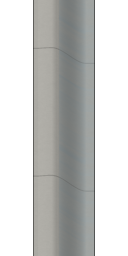
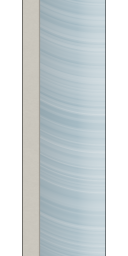
WEIR_LOOKS_REDRAW_ONE_PER_PIPE_STYLE: v12 Modern curtain (judge r6 blocking: read as a tube, too close to Industrial) -- flat warm crest + wide streaked water-sheet face, no mid seam, post never tinted; facing check reads Modern's crest as the least-blue column; judge r7 weak, blocking none; selftes

diff --git a/src/RimMandrake/FlowWorks/art_source/Weir/weir_by_photo.py b/src/RimMandrake/FlowWorks/art_source/Weir/weir_by_photo.py
@@ -4,7 +4,7 @@ scavver/crude, industrial, modern, futuristic." Refs, never committed: D:\\Claud
 weir_ref2_stepped_concrete, weir_ref3_smooth_curtain, weir_ref4_labyrinth_zigzag _owner_20261024.png):
   Scrapper   = a crude rubble weir: a heaped ridge of rounded field stones, moss on the dry tops, wet dark at the foot
   Industrial = a stepped concrete weir: level crest, three steps down the spill face, expansion joints, algae low down
-  Modern     = a smooth curtain weir: clean pale concrete, a brushed-steel crest strip, one unbroken ogee face
+  Modern     = a smooth curtain weir: a flat warm-white crest slab with a crisp nose, then one wide concave face carrying a streaked sheet of water
   Futuristic = a labyrinth weir: a white composite wall zig-zagging in plan (two teeth a cell), a cyan strip on its crest
 
 Procedural, deterministic. Each look is a PLAN heightfield (along the wall x, across it v from upstream to downstream,
@@ -263,15 +263,14 @@ def stepped(Wp, Vp, flip):
 
 
 def ogee_profile(vd, Vp):
-    """Smooth curtain: vertical upstream face, a rounded crest, one S-curve down to a short flat toe."""
+    """Smooth curtain: a flat level crest ending in a crisp nose, then one long concave face (water sheet) down to the
+    toe. v12 (judge r6: "a pale rounded tube ... close to Industrial"): the crest is flat, not rounded, and the face is
+    a wide apron, so the plan reads as a slab with a sheet of water down it, not a cylinder."""
     hc = 21.0
-    c0, c1, toe = 0.08 * Vp, 0.30 * Vp, 0.86 * Vp
+    c1, toe = 0.20 * Vp, 0.96 * Vp
     t = np.clip((vd - c1) / (toe - c1), 0, 1)
-    s = t * t * (3 - 2 * t)
-    hh = hc - (hc - 1.8) * s
-    nose = np.clip((vd - c0) / (c1 - c0), 0, 1)
-    hh = hh - 0.9 * (1 - np.sin(nose * np.pi / 2)) * (vd < c1)
-    hh = np.where(vd < c0, hc - 0.9 + 0.9 * np.clip(vd / c0, 0, 1) * 0, hh)
+    s = 1 - (1 - t) ** 2.2                     # steep just below the nose, flattening toward the toe
+    hh = hc - (hc - 1.2) * s
     return np.where((vd >= 0) & (vd < Vp), hh, 0)
 
 
@@ -284,6 +283,7 @@ def ogee(Wp, Vp, flip):
     return P
 
 
+MODERN_D = 84    # Modern plan depth (S px): a wide curtain apron (judge r6)
 LAB_H = 10.0    # the labyrinth wall's height (S px): low, so seen N-S its faces do not stack into a coil (judge r4-r5)
 
 
@@ -363,19 +363,18 @@ def colours(look, P, wrap_v):
             base = np.where((~face)[..., None], base * 1.18, base)   # lit treads against dark risers
             return base, 0.40, 0.72, 0.0
         if look == "Modern":
-            base = np.array([198, 196, 189], np.float32) * (0.97 + 0.05 * g1)[..., None]
-            seam = (al % 128 == 64)
-            base = np.where(seam[..., None], base * 0.85, base)
-            wet = np.clip((5.0 - z) / 5.0, 0, 1) * 0.35
-            base = mix(base, [120, 132, 136], wet)
-            # the curtain: a thin film of water down the sloped face, faint vertical streaks along the wall (judge r4:
-            # "a plain beam")
-            film = (~face) & (z < 19.0) & (z > 2.0)
-            mstreak = pnoise((1, 256), 256, 53, scales=(2, 3, 6))[0][al % 256] ** 2
-            base = np.where(film[..., None], mix(base, [168, 186, 194], 0.25 + 0.45 * mstreak), base)
-            steel = (~face) & (z > 20.0)                    # the crest, a shade off the slab
-            base = np.where(steel[..., None], base * 0.97, base)
-            return base, 0.42, 0.62, 0.03   # the crest in the slab's own colour: no bright line (judge r2, r3)
+            # v12 (judge r6): a warm-white flat crest slab, then the curtain -- a bright blue-white sheet of water with
+            # strong vertical streaks over the whole face, foaming at the toe; no mid-section seam (read as a join line)
+            crest = np.array([224, 220, 210], np.float32) * (0.97 + 0.05 * g1)[..., None]
+            mstreak = pnoise((1, 256), 256, 53, scales=(1.5, 3, 6))[0][al % 256] ** 1.5
+            sheet = mix(np.broadcast_to(np.array([176, 204, 216], np.float32), crest.shape), [238, 246, 250],
+                        0.15 + 0.75 * mstreak)
+            on_face = (z < 20.4) & (top < 30)        # never on the post (its top is ~82): judge r7 "posts tint blue"
+            base = np.where(on_face[..., None], sheet, crest)
+            foam = np.clip((4.0 - z) / 4.0, 0, 1) * 0.6
+            base = mix(base, [240, 246, 248], foam)
+            amb = np.where(on_face, 0.62, 0.46)
+            return base, amb, np.where(on_face, 0.40, 0.58), 0.03
         # Futuristic
         base = np.array([226, 231, 236], np.float32) * (0.98 + 0.03 * g1)[..., None]
         # the downstream bays: water falling off the crest into them, white streaks running with the flow (the photo's
@@ -404,7 +403,7 @@ def body_h(look, flip):
     elif look == "Industrial":
         P, y0 = stepped(Wp, 64, flip), 50
     elif look == "Modern":
-        P, y0 = ogee(Wp, 62, flip), 48
+        P, y0 = ogee(Wp, MODERN_D, flip), 44
     else:
         P, y0 = labyrinth(Wp, 74, flip), 44
     own, z = project(P.h, P.id, KY, y0, 128, wrap=False)
@@ -416,7 +415,7 @@ def body_v(look):
     Lp = round(256 / KY)                  # plan length whose screen image is exactly 256 rows
     ky = 256 / Lp
     if True:
-        depth = {"Scrapper": 92, "Industrial": 64, "Modern": 62, "Futuristic": 74}[look]
+        depth = {"Scrapper": 92, "Industrial": 64, "Modern": MODERN_D, "Futuristic": 74}[look]
         xs = (128 - depth) // 2
         if look == "Scrapper":
             P = rubble(depth, Lp, 43, along_v=True)

diff --git a/src/RimMandrake/FlowWorks/Tools/fw_scenes_weir.py b/src/RimMandrake/FlowWorks/Tools/fw_scenes_weir.py
@@ -357,7 +357,7 @@ def facing(d, look):
     cols = np.nonzero(al.any(0))[0]
     c0, c1 = cols.min(), cols.max()
     lum = _lum(north[..., :3])
-    # the crest is the highest, flattest top: brightest columns (Modern's steel strip, Industrial's crest slab); the
+    # the crest is the highest, flattest top: brightest columns (Industrial's crest slab); the
     # labyrinth's teeth are one height both ways: its downstream bays carry the falling water
     colmean = np.array([np.median(lum[al[:, c], c]) if al[:, c].any() else 0 for c in range(north.shape[1])])
     if look == "Futuristic":
@@ -370,6 +370,12 @@ def facing(d, look):
         ok = se is not None and sw is not None and se > sw + 8 and rel >= 0.55
         return ok, "water bays centre row east %s vs west %s (east >= 8 lower); north bays centre at %.2f of the band" \
                    " (>= 0.55, downstream right)" % (None if se is None else round(se), None if sw is None else round(sw), rel)
+    elif look == "Modern":
+        # the crest is the warm dry slab; the curtain below it is a blue-white water sheet, often brighter (v12), so
+        # the crest is the column whose median is least blue, not the brightest
+        warm = north[..., 0].astype(np.float32) - north[..., 2].astype(np.float32)
+        colwarm = np.array([np.median(warm[al[:, c], c]) if al[:, c].any() else -999 for c in range(north.shape[1])])
+        where = float(np.argmax(colwarm))
     else:
         where = float(np.argmax(colmean))
     rel = (where - c0) / max(1, c1 - c0)
